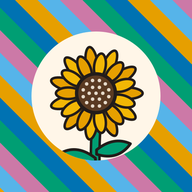
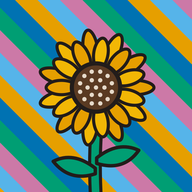
Icono: girasol directamente sobre las rayas
Claude-Session: https://claude.ai/code/session_01DxnbB1LyvtM6Gg8KpMoYjk

diff --git a/sw.js b/sw.js
@@ -1,6 +1,6 @@
 /* Offline support: show the saved copy at once, fetch the new version in the background.
    The new version is used on the next launch. Change VERSION to force a full refresh. */
-const VERSION = "cuento-v4";
+const VERSION = "cuento-v5";
 const FILES = ["./", "index.html", "manifest.webmanifest", "icon-192.png", "icon-512.png", "apple-touch-icon.png"];
 
 self.addEventListener("install", e => {
